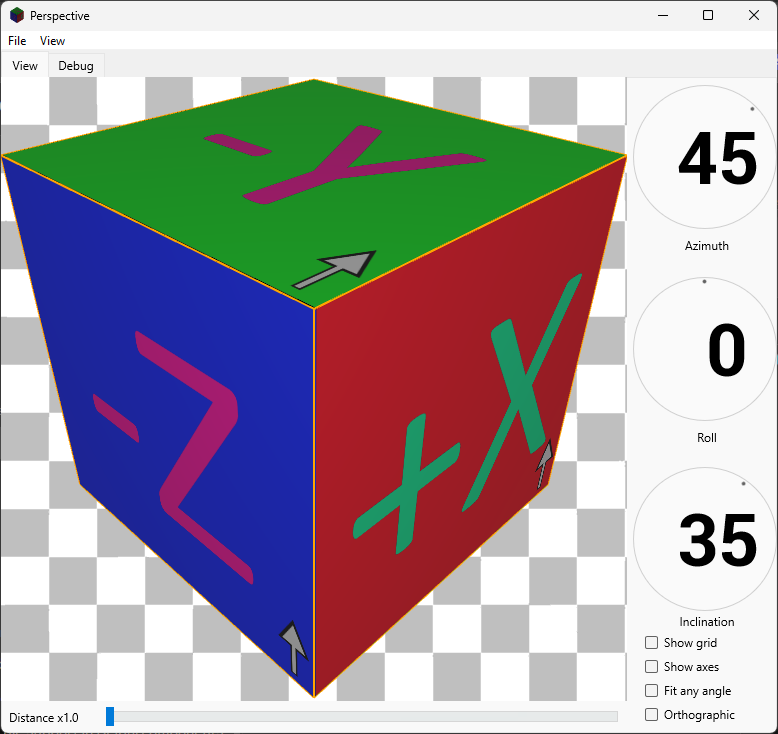
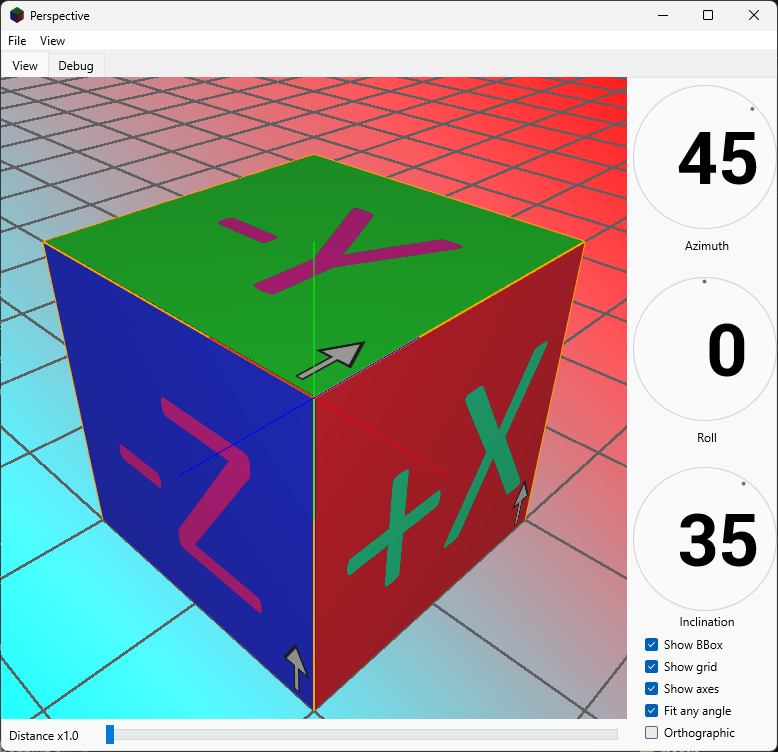
README update

diff --git a/notes.md b/notes.md
@@ -17,7 +17,7 @@
 >
 > The kinds
 >
-> None: every plane is moved behind the camera, so nothing is drawn and the viewport’s own black shows.
+> None: every plane is shrunk to a speck and moved out of view, so nothing is drawn and the viewport’s own black shows.
 > Solid: one full-view plane, a pair really (see below), whose material has a tiny GLSL SurfaceShader that sets one colour.
 > Gradient: the same plane, with a shader that blends from the From colour to the To colour down the plane’s own Y axis (vars.v_VertPos.y). For the other directions, the plane is turned in the view so its Y axis points the chosen way, and enlarged so it still covers the view. The diagonals run exactly corner to corner. After turning, the code reads the plane’s matrix to confirm the axis points the right way, and turns it the other way if not.
 > Transparent (the checker): the full-view plane is put away. The view is tiled with small square planes side by side, light and dark alternating, starting with light at the top-left. All light squares share one material and all dark squares another. They’re all made at startup and only moved afterwards, up to 150 squares of each grey; above that, the squares are drawn at 2×, 3× and so on.
@@ -35,7 +35,7 @@
 >
 > Grabs and icons
 >
-> The background is hidden while a grab is drawn: OnBeforeGrab sets Hidden, which moves the planes behind the camera, and OnAfterGrab brings them back. The off-screen renderer cuts the model out against a transparent background. With None or Transparent the grab stays transparent. With Solid or Gradient it fills the colour or gradient in afterwards, per pixel, in the same direction as on screen, so soft edges blend into it.
+> The background is hidden while a grab is drawn: OnBeforeGrab sets Hidden, which shrinks the planes to a speck and moves them out of view, and OnAfterGrab brings them back. The off-screen renderer cuts the model out against a transparent background. With None or Transparent the grab stays transparent. With Solid or Gradient it fills the colour or gradient in afterwards, per pixel, in the same direction as on screen, so soft edges blend into it.
 >
 > Not working yet
 >
